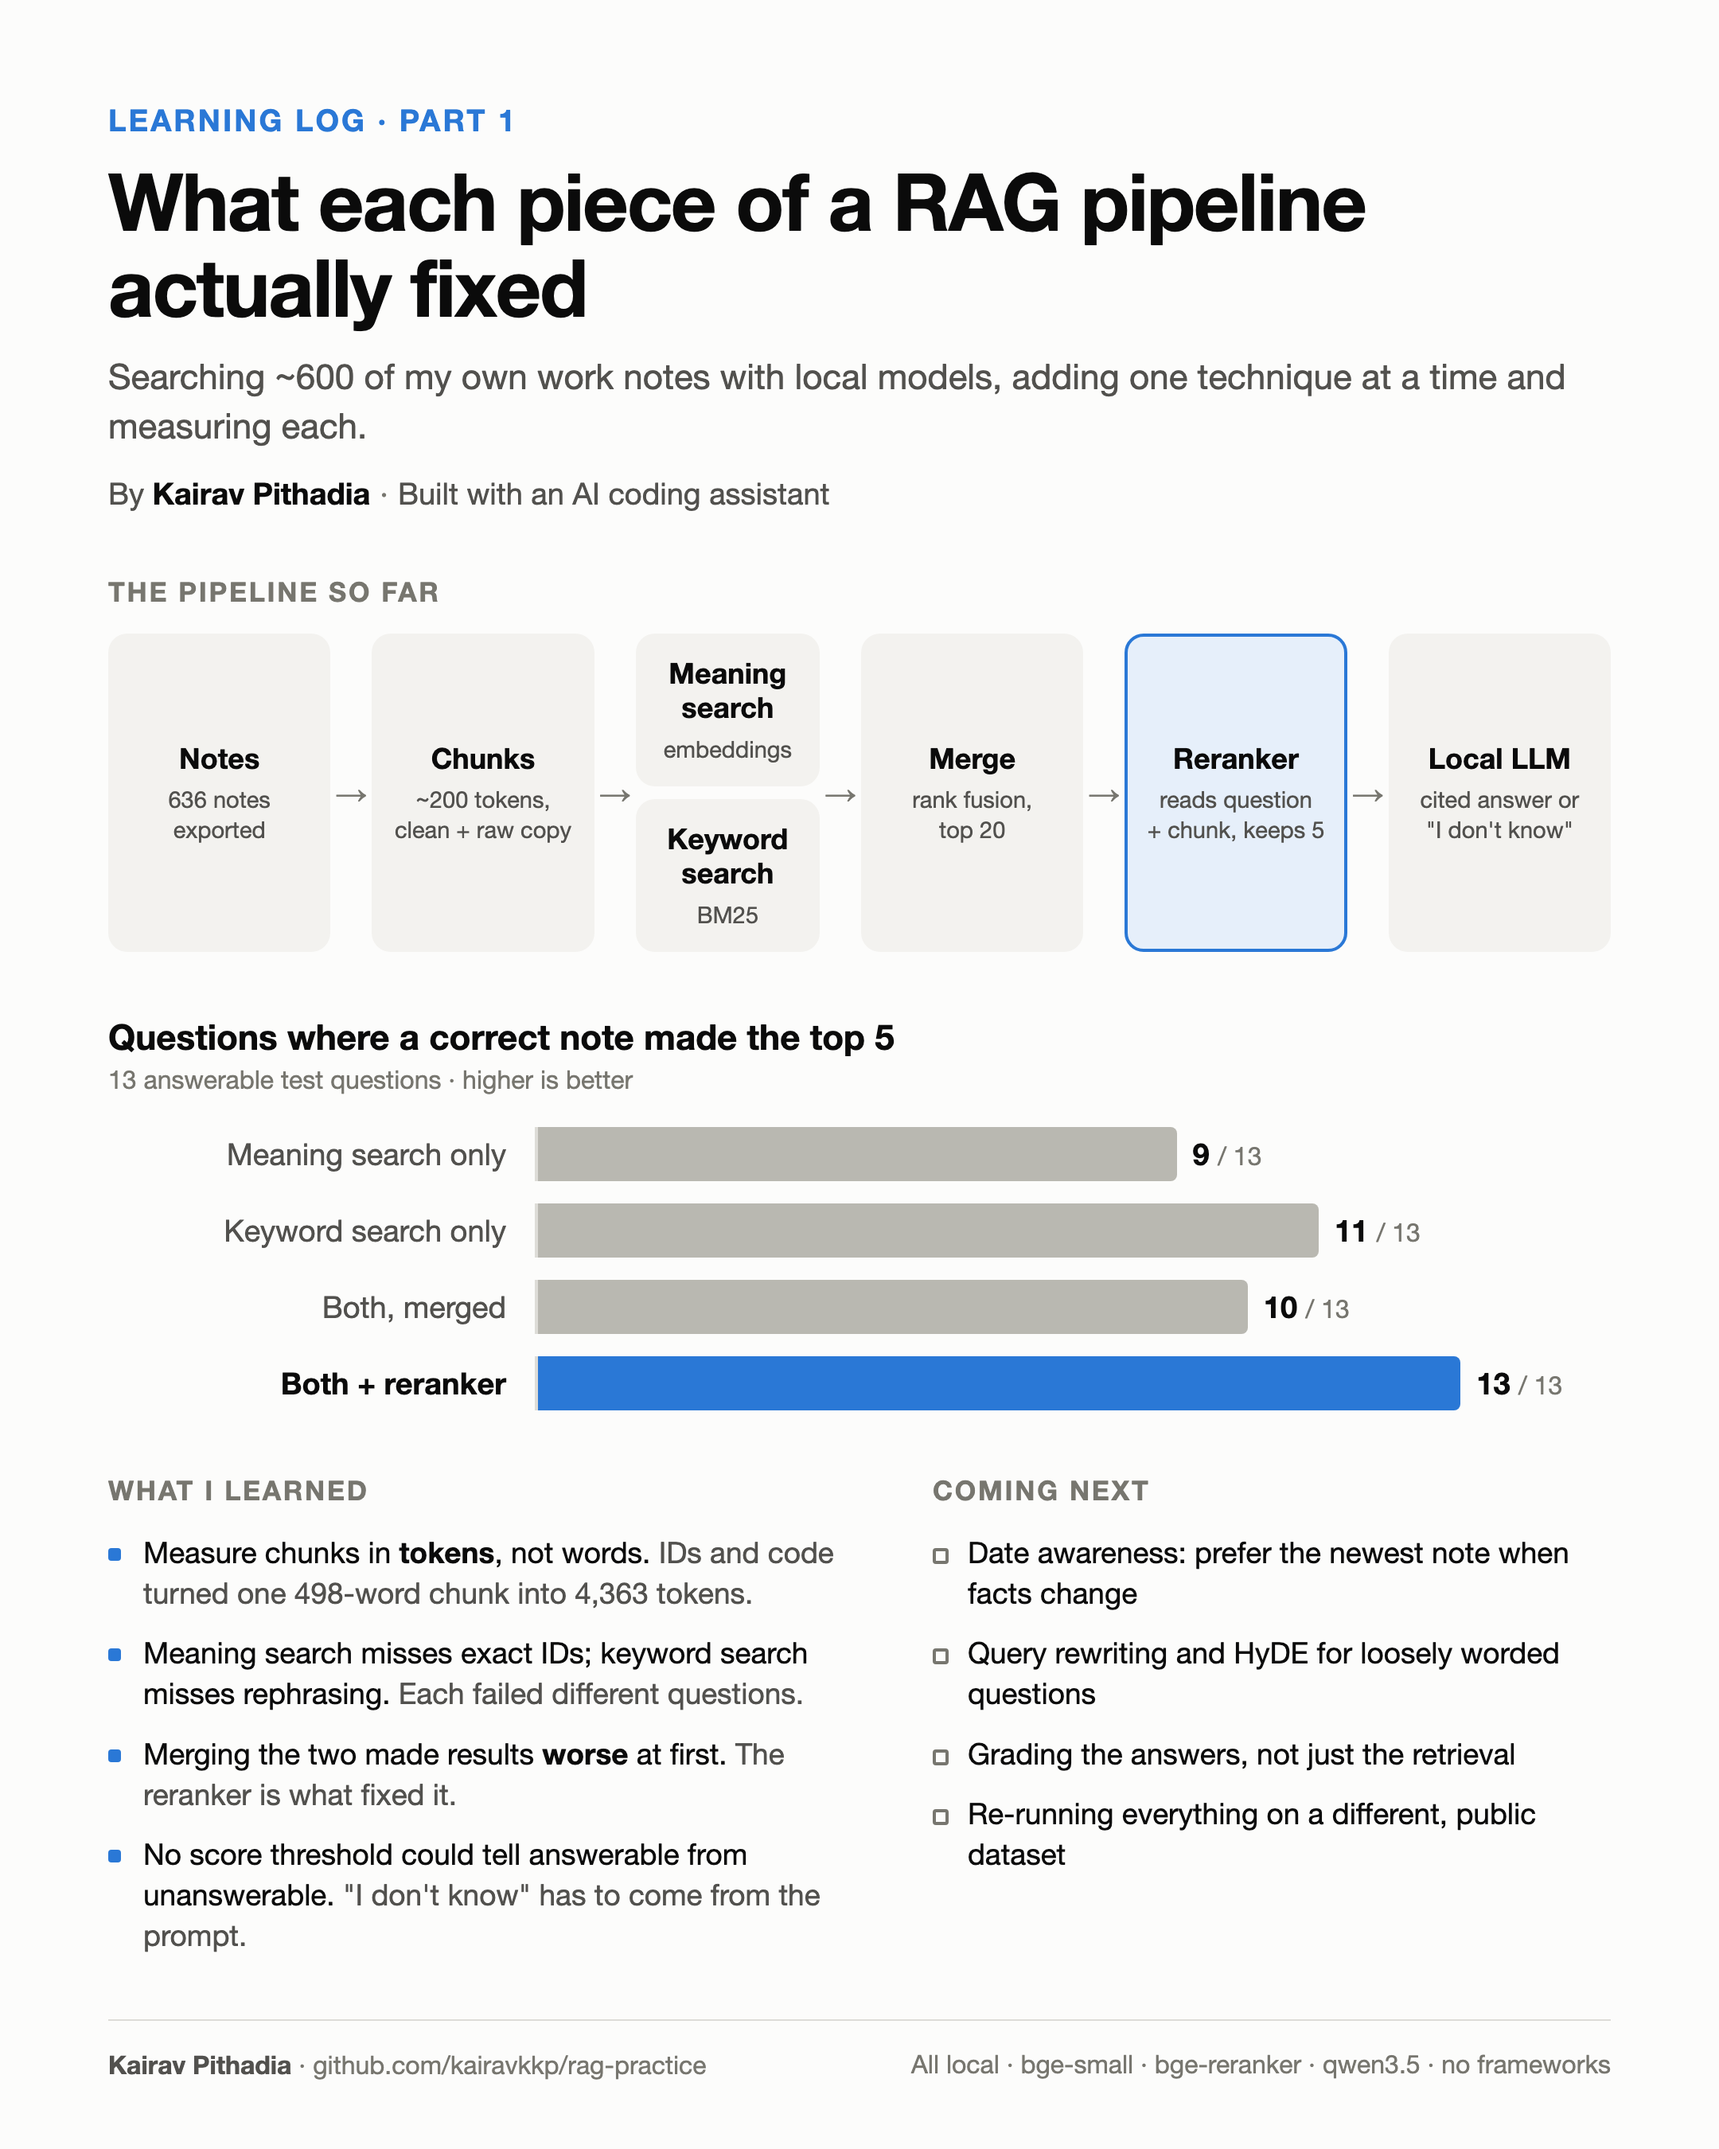
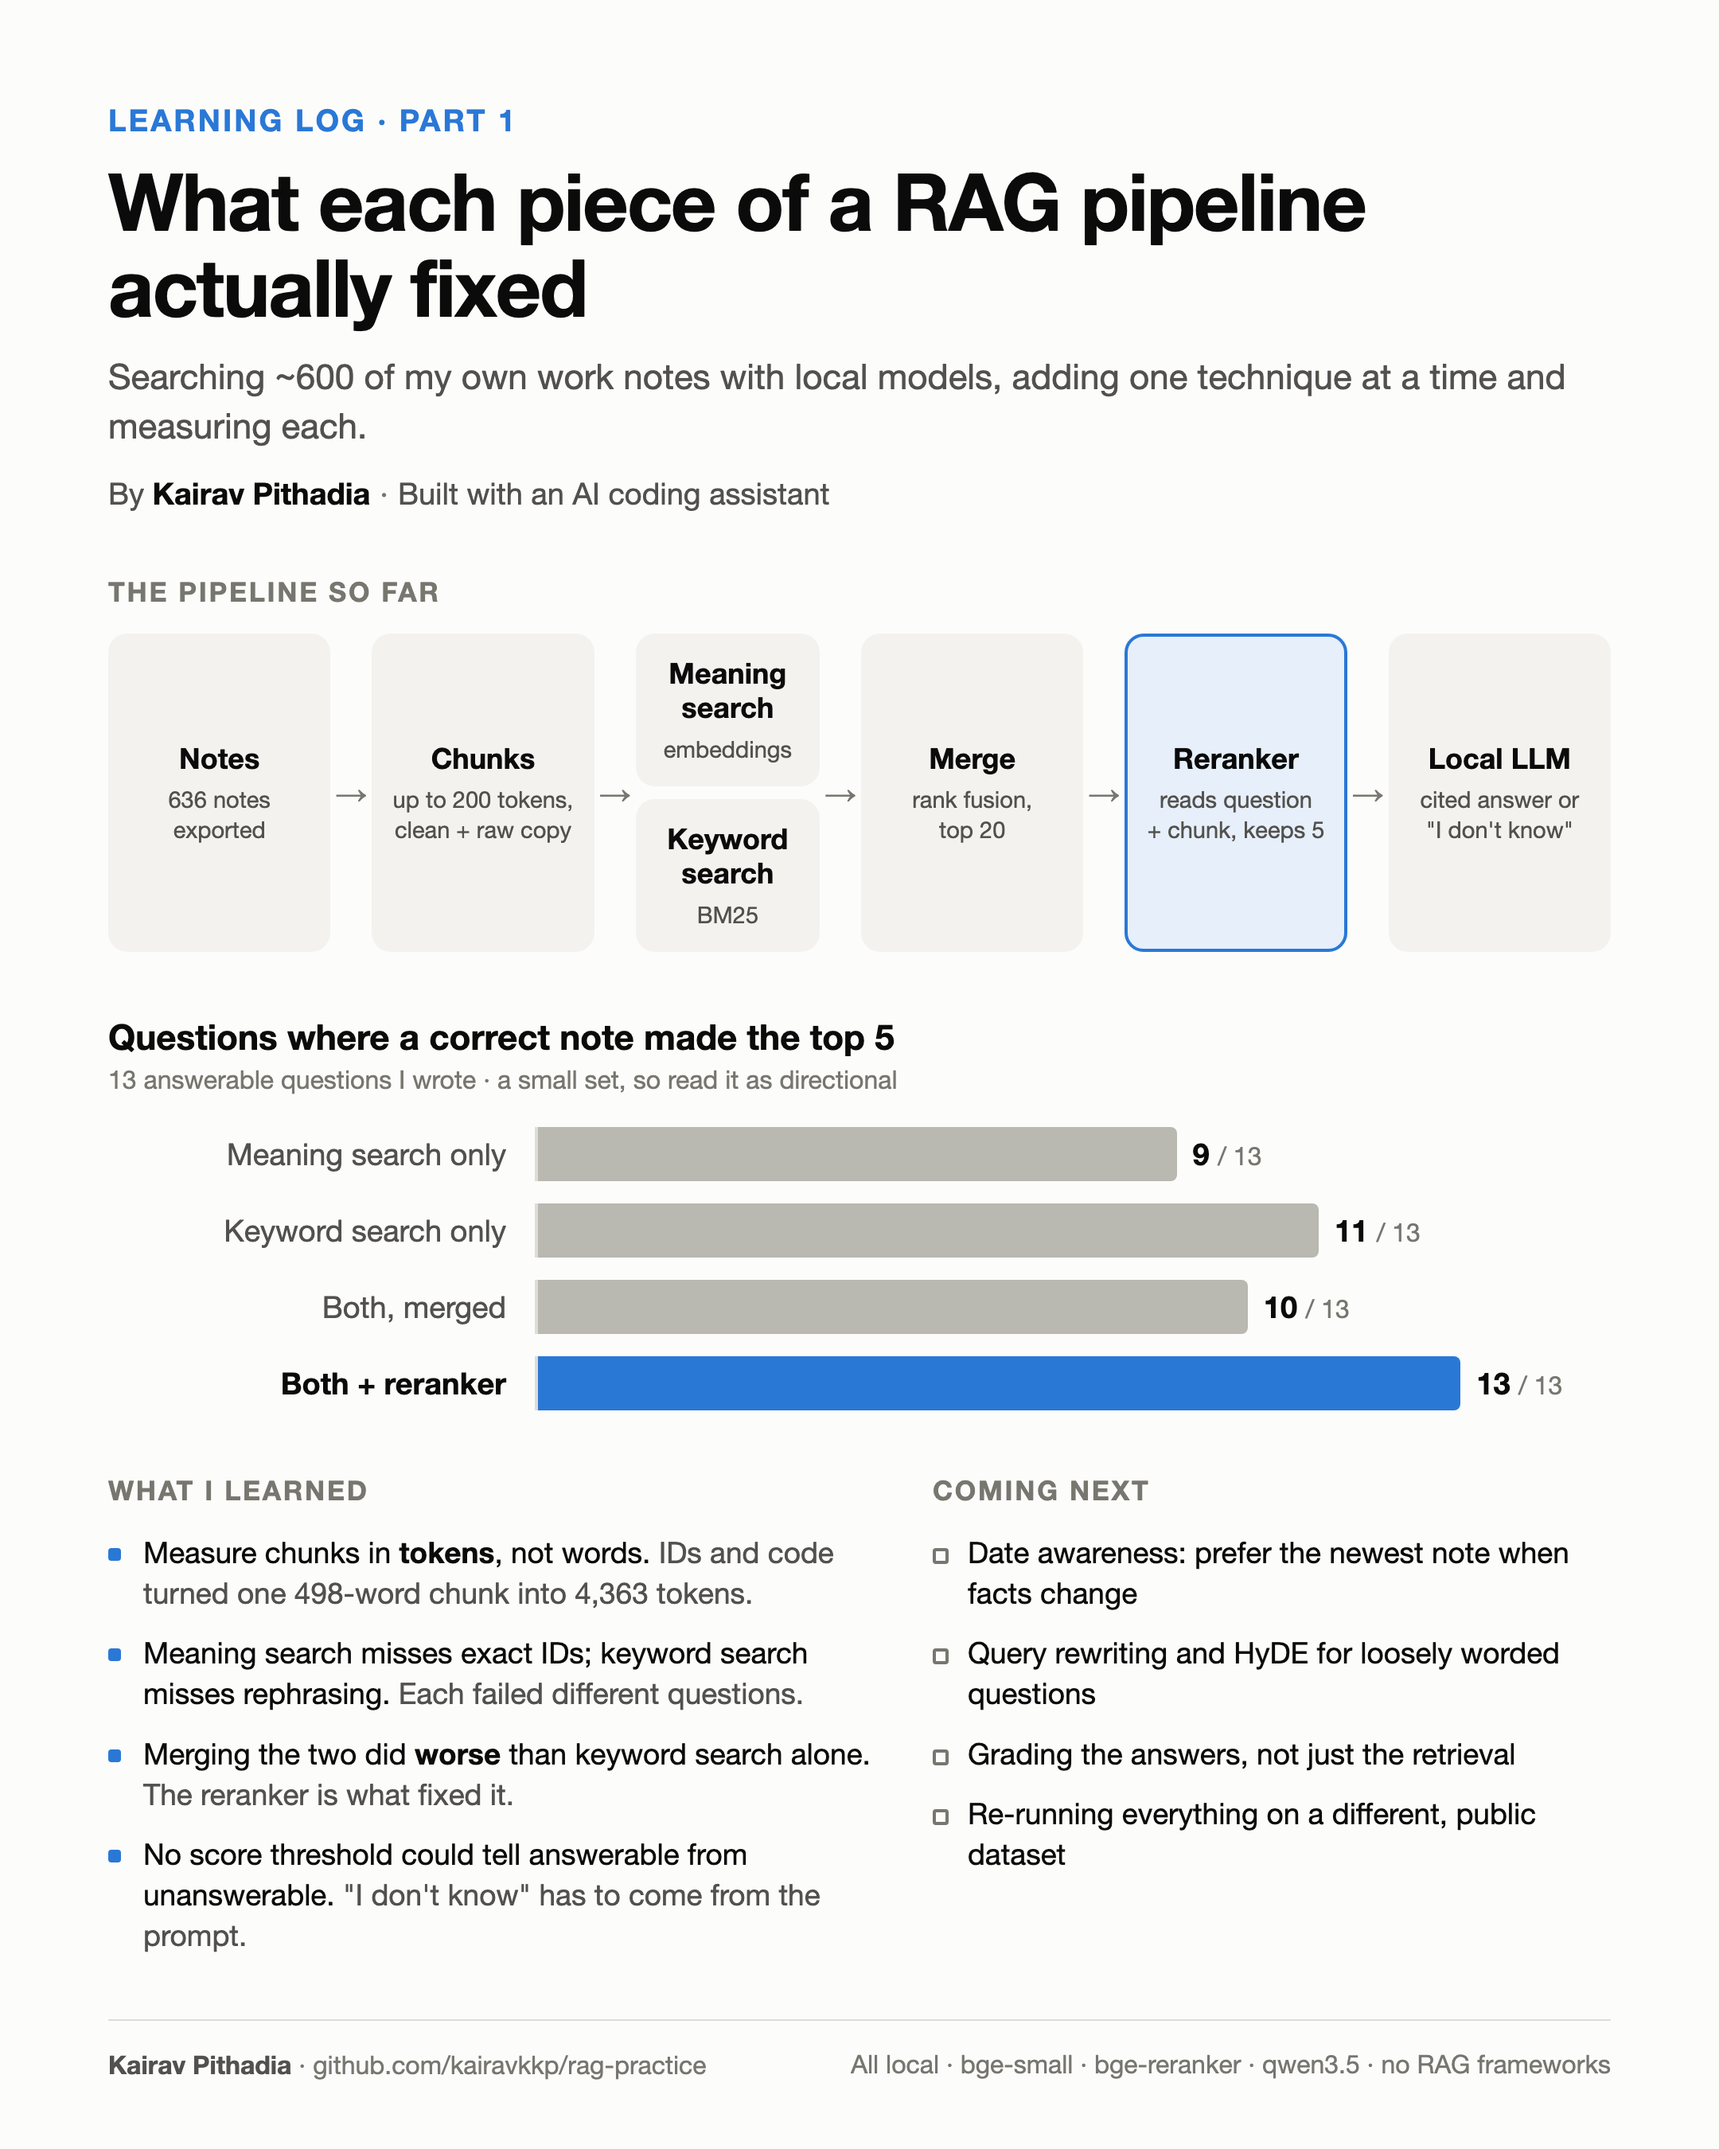
fix: asset

diff --git a/docs/rag-progress-part1.html b/docs/rag-progress-part1.html
@@ -78,7 +78,7 @@
     <div class="flow">
       <div class="step"><b>Notes</b><span>636 notes<br>exported</span></div>
       <div class="arrow">→</div>
-      <div class="step"><b>Chunks</b><span>~200 tokens,<br>clean + raw copy</span></div>
+      <div class="step"><b>Chunks</b><span>up to 200 tokens,<br>clean + raw copy</span></div>
       <div class="arrow">→</div>
       <div class="stack">
         <div class="step"><b>Meaning search</b><span>embeddings</span></div>
@@ -95,7 +95,7 @@
 
   <section>
     <div class="chart-title">Questions where a correct note made the top 5</div>
-    <div class="chart-note">13 answerable test questions · higher is better</div>
+    <div class="chart-note">13 answerable questions I wrote · a small set, so read it as directional</div>
     <div class="bars">
       <div class="label">Meaning search only</div>
       <div class="track"><div class="bar" style="width:calc(9/13*86%)"></div><div class="val" style="left:calc(9/13*86%)">9 <small>/ 13</small></div></div>
@@ -114,7 +114,7 @@
       <ul>
         <li>Measure chunks in <b>tokens</b>, not words. <em>IDs and code turned one 498-word chunk into 4,363 tokens.</em></li>
         <li>Meaning search misses exact IDs; keyword search misses rephrasing. <em>Each failed different questions.</em></li>
-        <li>Merging the two made results <b>worse</b> at first. <em>The reranker is what fixed it.</em></li>
+        <li>Merging the two did <b>worse</b> than keyword search alone. <em>The reranker is what fixed it.</em></li>
         <li>No score threshold could tell answerable from unanswerable. <em>"I don't know" has to come from the prompt.</em></li>
       </ul>
     </div>
@@ -131,7 +131,7 @@
 
   <footer>
     <span><b>Kairav Pithadia</b> · github.com/kairavkkp/rag-practice</span>
-    <span>All local · bge-small · bge-reranker · qwen3.5 · no frameworks</span>
+    <span>All local · bge-small · bge-reranker · qwen3.5 · no RAG frameworks</span>
   </footer>
 </body>
 </html>
